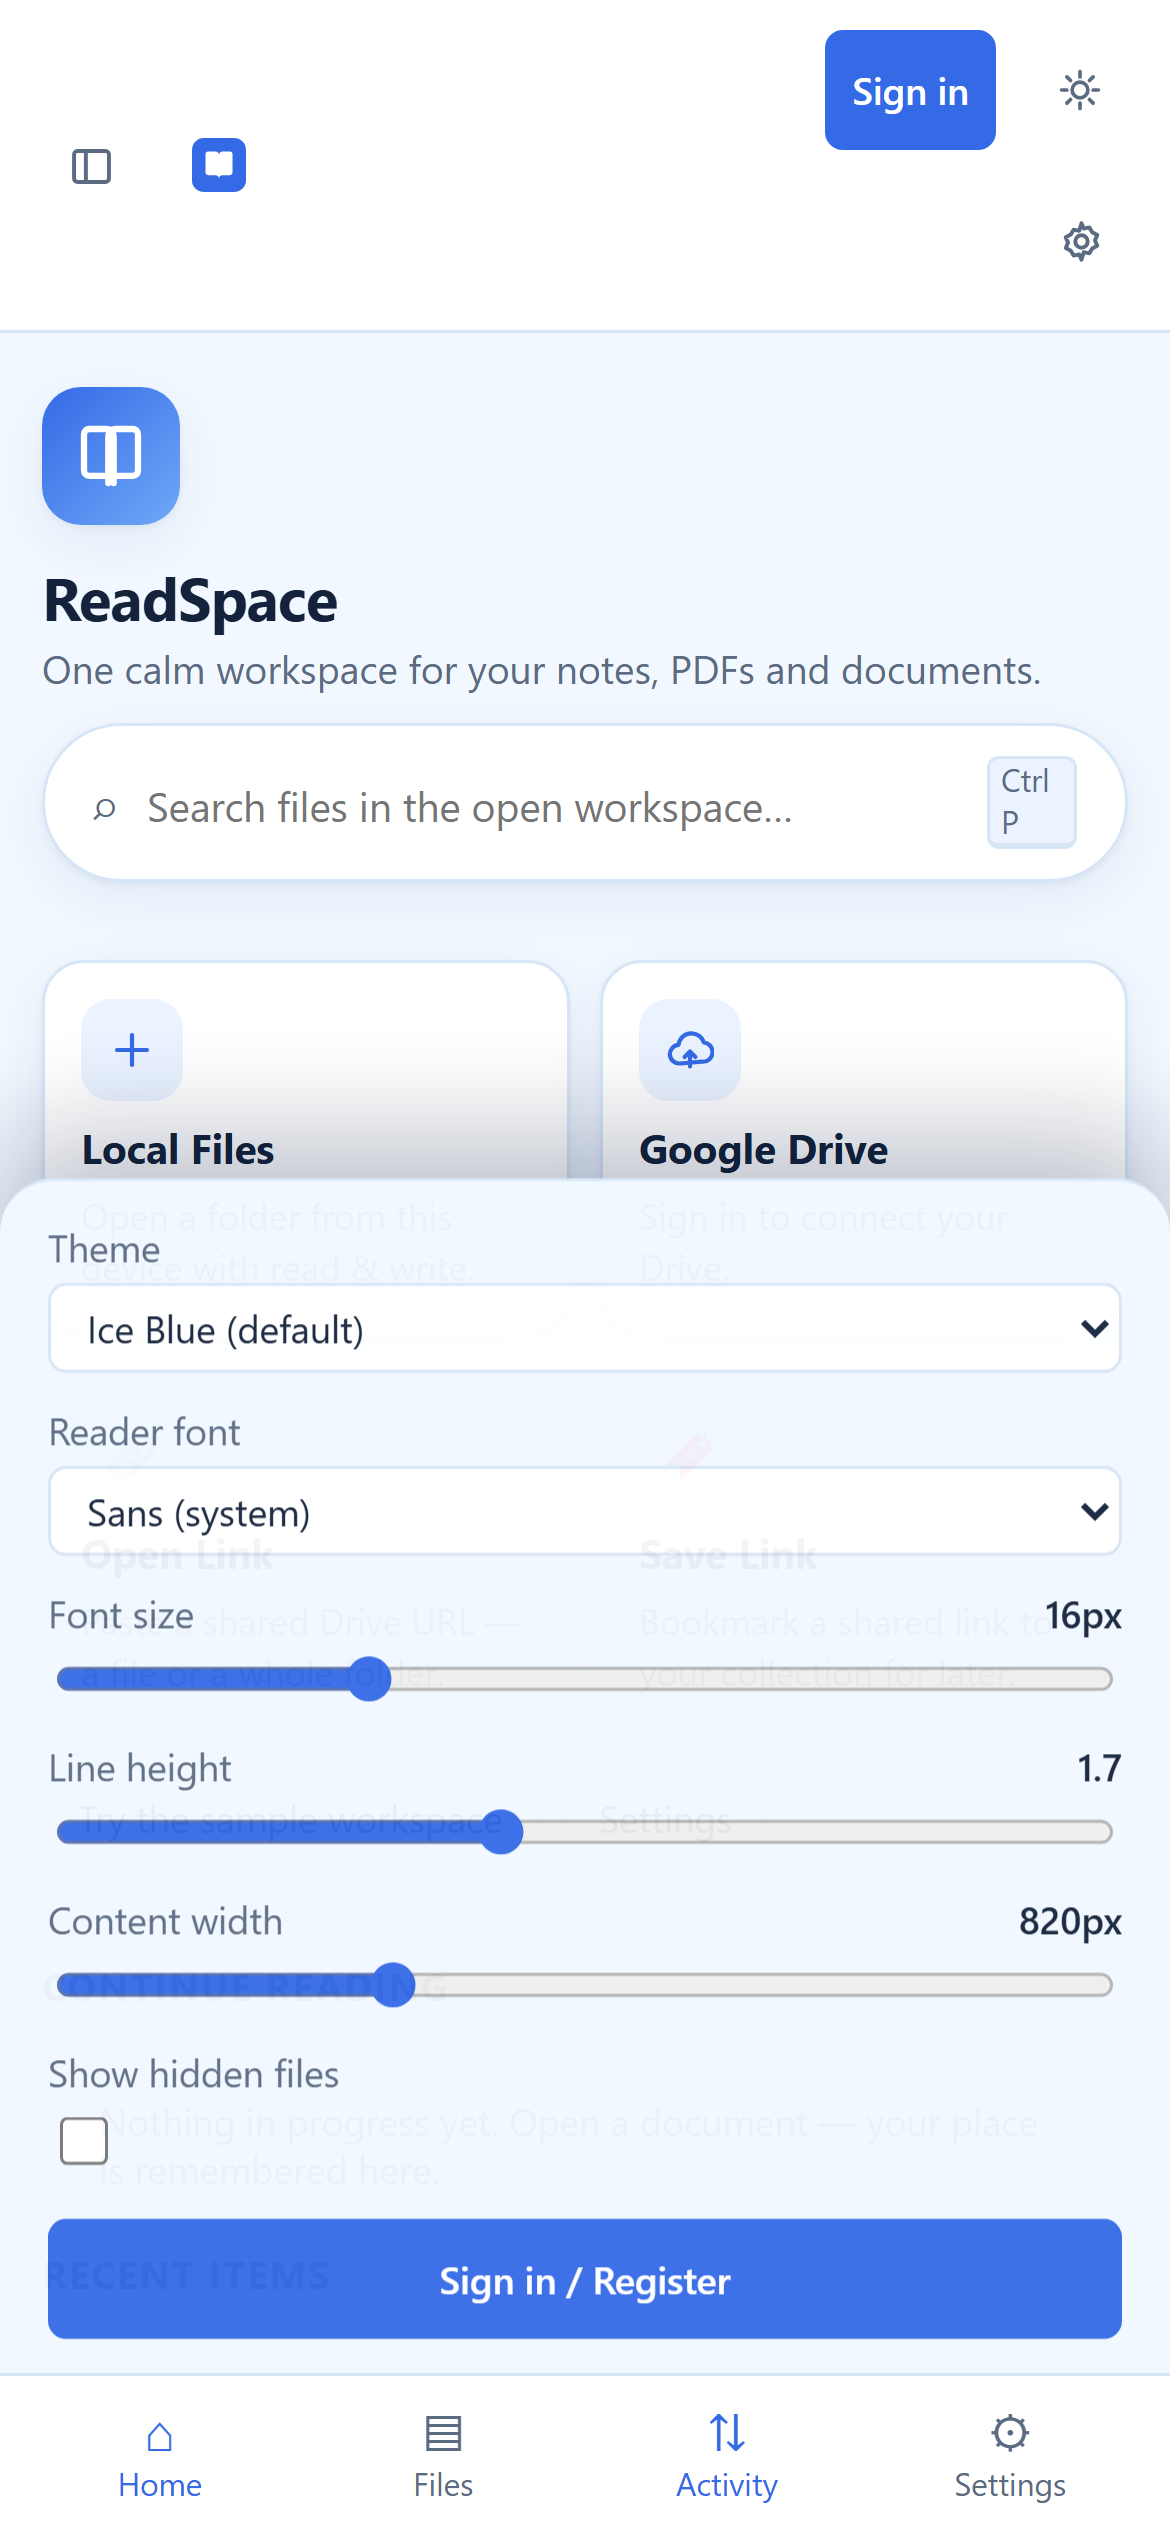
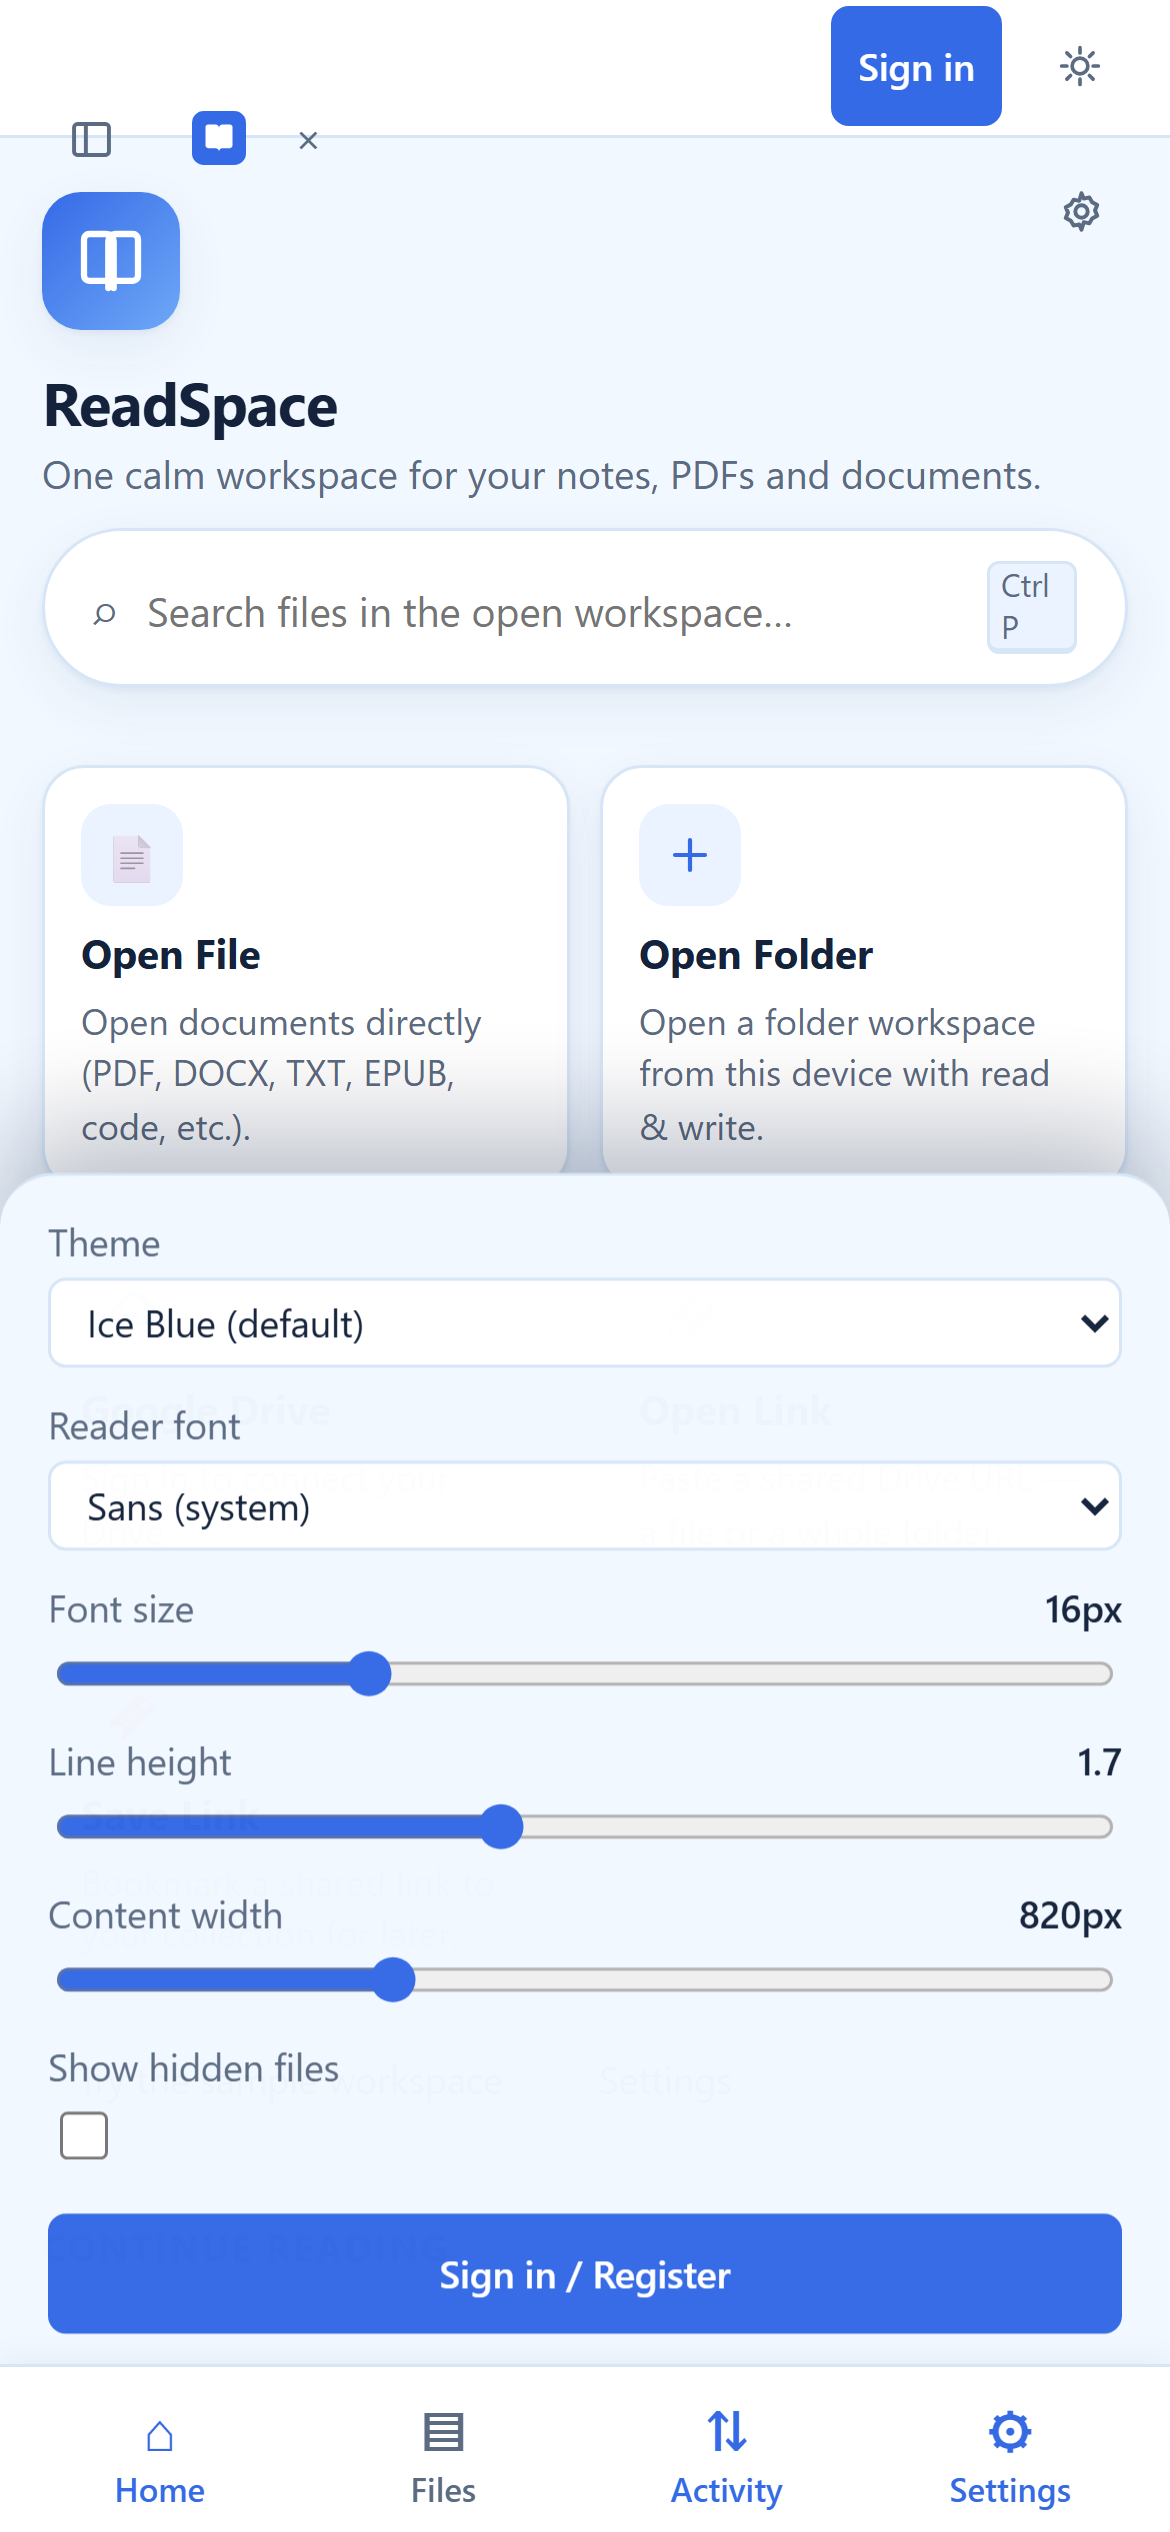
perf: gzip http compression, indexed mongo queries, bundle splitting, and textUtils extraction

diff --git a/src/components/Explorer.tsx b/src/components/Explorer.tsx
@@ -1,4 +1,4 @@
-import React, { useEffect, useMemo, useRef, useState } from 'react';
+import React, { useCallback, useEffect, useMemo, useRef, useState } from 'react';
 import { useWorkspace } from '../stores/workspace';
 import { useTabs } from '../stores/tabs';
 import { useSettings } from '../stores/settings';
@@ -63,13 +63,13 @@ export function Explorer() {
     return allFiles.filter((f) => f.path.toLowerCase().includes(q)).slice(0, 300);
   }, [filter, allFiles]);
 
-  const activate = (entry: FsEntry) => {
+  const activate = useCallback((entry: FsEntry) => {
     if (entry.kind === 'directory') void toggleDir(entry.path);
     else {
       useWorkspace.getState().select(entry.path);
       openPath(entry.path, { ext: entry.ext });
     }
-  };
+  }, [toggleDir, openPath]);
 
   const onContainerKeyDown = (e: React.KeyboardEvent) => {
     const container = containerRef.current;
@@ -81,30 +81,15 @@ export function Explorer() {
     } else if (e.key === 'ArrowUp' && idx > 0) {
       e.preventDefault(); rows[idx - 1].focus();
     } else if (e.key === 'ArrowRight' && idx >= 0) {
-      const path = rows[idx].dataset.path!;
-      if (!useWorkspace.getState().expanded[path]) { e.preventDefault(); void useWorkspace.getState().toggleDir(path); }
+      const p = rows[idx].dataset.path!;
+      if (!useWorkspace.getState().expanded[p]) { e.preventDefault(); void useWorkspace.getState().toggleDir(p); }
     } else if (e.key === 'ArrowLeft' && idx >= 0) {
-      const path = rows[idx].dataset.path!;
-      if (useWorkspace.getState().expanded[path]) { e.preventDefault(); void useWorkspace.getState().toggleDir(path); }
+      const p = rows[idx].dataset.path!;
+      if (useWorkspace.getState().expanded[p]) { e.preventDefault(); void useWorkspace.getState().toggleDir(p); }
     } else if (e.key === 'Enter' && idx >= 0) {
       e.preventDefault(); rows[idx].click();
     }
   };
-
-  const renderNode = (entry: FsEntry, depth: number): React.ReactNode => (
-    <TreeNodeItem
-      key={entry.path}
-      entry={entry}
-      depth={depth}
-      showHidden={showHidden}
-      cloudSync={cloudSync}
-      provider={provider}
-      selected={selected}
-      activate={activate}
-      openPath={openPath}
-      renderNode={renderNode}
-    />
-  );
 
   return (
     <div className="explorer">
@@ -298,14 +283,26 @@ export function Explorer() {
             ))
           )
         ) : (
-          !busy && (entries[''] ?? []).map((e) => renderNode(e, 0))
+          !busy && (entries[''] ?? []).map((e) => (
+            <TreeNodeItem
+              key={e.path}
+              entry={e}
+              depth={0}
+              showHidden={showHidden}
+              cloudSync={cloudSync}
+              provider={provider}
+              selected={selected}
+              activate={activate}
+              openPath={openPath}
+            />
+          ))
         )}
       </div>
     </div>
   );
 }
 
-function TreeNodeItem({
+const TreeNodeItem = React.memo(function TreeNodeItem({
   entry,
   depth,
   showHidden,
@@ -314,7 +311,6 @@ function TreeNodeItem({
   selected,
   activate,
   openPath,
-  renderNode,
 }: {
   entry: FsEntry;
   depth: number;
@@ -324,7 +320,6 @@ function TreeNodeItem({
   selected: string | null;
   activate: (entry: FsEntry) => void;
   openPath: (path: string, meta?: any) => void;
-  renderNode: (entry: FsEntry, depth: number) => React.ReactNode;
 }) {
   const isOpen = useWorkspace((s) => !!s.expanded[entry.path]);
   const children = useWorkspace((s) => s.entries[entry.path]);
@@ -434,7 +429,7 @@ function TreeNodeItem({
               const { pickLocalDestination, downloadFromDrive } = await import('../features/cloud/transfers');
               const cloudP = provider as InstanceType<typeof CloudDriveProvider>;
               try {
-                const meta = await cloudP.metaFor(entry.path);
+                const meta = await (cloudP as any).metaFor(entry.path);
                 if (meta?.id) {
                   const dest = await pickLocalDestination();
                   if (dest === 'cancelled') return;
@@ -463,13 +458,25 @@ function TreeNodeItem({
               (empty)
             </div>
           ) : (
-            children.map((c) => renderNode(c, depth + 1))
+            children.map((c) => (
+              <TreeNodeItem
+                key={c.path}
+                entry={c}
+                depth={depth + 1}
+                showHidden={showHidden}
+                cloudSync={cloudSync}
+                provider={provider}
+                selected={selected}
+                activate={activate}
+                openPath={openPath}
+              />
+            ))
           )}
         </div>
       )}
     </div>
   );
-}
+});
 
 function isVisibleLocal(entry: FsEntry, showHidden: boolean): boolean {
   if (!showHidden && entry.name.startsWith('.')) return false;

diff --git a/src/components/ViewerHost.tsx b/src/components/ViewerHost.tsx
@@ -5,18 +5,18 @@ import { toast } from '../stores/toast';
 import { EDITABLE_RENDERERS, rendererForExt, rendererLabel } from '../services/fs/types';
 import { DriveConflictError } from '../services/fs/cloud';
 import { confirmOptions } from '../stores/confirm';
-import { countWords, downloadText } from '../services/assets';
+import { countWords, downloadText } from '../services/textUtils';
 import { clearDraft, loadDraft, scheduleDraft } from '../services/persistence';
 import ErrorBoundary from './ErrorBoundary';
-import MarkdownView from './viewers/MarkdownView';
 import TextView from './viewers/TextView';
 import HtmlView from './viewers/HtmlView';
 import ImageView from './viewers/ImageView';
 import UnsupportedView from './viewers/UnsupportedView';
 import PlainEditor from './editors/PlainEditor';
-import { Spinner } from './viewers/PdfView';
+import { Spinner } from './Spinner';
 import { Eye, Pencil, Split } from './Icons';
 
+const MarkdownView = React.lazy(() => import('./viewers/MarkdownView'));
 const PdfView = React.lazy(() => import('./viewers/PdfView'));
 const DocxView = React.lazy(() => import('./viewers/DocxView'));
 const AudioView = React.lazy(() => import('./viewers/AudioView'));
@@ -234,7 +234,11 @@ export function ViewerHost({ tab }: { tab: Tab }) {
   const renderPreview = () => {
     switch (rendererId) {
       case 'markdown':
-        return <ErrorBoundary><MarkdownView text={text} path={tab.path} /></ErrorBoundary>;
+        return (
+          <Suspense fallback={<Spinner label="Loading markdown engine…" />}>
+            <ErrorBoundary><MarkdownView text={text} path={tab.path} /></ErrorBoundary>
+          </Suspense>
+        );
       case 'html':
         return <ErrorBoundary><HtmlView text={text} path={tab.path} /></ErrorBoundary>;
       case 'text':

diff --git a/src/services/assets.ts b/src/services/assets.ts
@@ -51,14 +51,7 @@ export function mimeForRef(ref: string, buf?: ArrayBuffer): string {
   return mime;
 }
 
-export function downloadText(name: string, text: string): void {
-  const blob = new Blob([text], { type: 'text/plain;charset=utf-8' });
-  const a = document.createElement('a');
-  a.href = URL.createObjectURL(blob);
-  a.download = name;
-  a.click();
-  setTimeout(() => URL.revokeObjectURL(a.href), 5000);
-}
+export { countWords, downloadText } from './textUtils';
 
 function slugify(s: string): string {
   return s.toLowerCase().trim().replace(/[^\w\s-]/g, '').replace(/\s+/g, '-').slice(0, 64) || 'section';
@@ -244,9 +237,6 @@ export async function buildSandboxedHtml(
   return { html: '<!doctype html>' + doc.documentElement.outerHTML };
 }
 
-export function countWords(text: string): number {
-  const m = text.trim().match(/\S+/g);
-  return m ? m.length : 0;
-}
+
 
 export { basename };

diff --git a/src/components/TitleBar.tsx b/src/components/TitleBar.tsx
@@ -70,8 +70,10 @@ export function TitleBar({ onQuickOpen, onOpenDrive, onHome }: { onQuickOpen: ()
           <span className="brand-name">ReadSpace</span>
         </button>
         {provider && (
-          <span className="ws-label" title={`Workspace: ${provider.id}`}>
-            {provider.label}
+          <span style={{ display: 'inline-flex', alignItems: 'center' }}>
+            <span className="ws-label" title={`Workspace: ${provider.id}`}>
+              {provider.label}
+            </span>
             <button
               type="button"
               className="ws-close-btn"

diff --git a/src/components/viewers/PdfView.tsx b/src/components/viewers/PdfView.tsx
@@ -1,3 +1,4 @@
+import { Spinner } from '../Spinner';
 import React, { useCallback, useEffect, useRef, useState } from 'react';
 import type { PDFDocumentProxy } from 'pdfjs-dist';
 import { ZoomIn, ZoomOut } from '../Icons';
@@ -307,11 +308,4 @@ function PdfPage({
   );
 }
 
-export function Spinner({ label }: { label: string }) {
-  return (
-    <div className="spinner-wrap" role="status" aria-live="polite">
-      <div className="spinner" />
-      <span className="muted">{label}</span>
-    </div>
-  );
-}
+export { Spinner } from '../Spinner';

diff --git a/src/services/textUtils.ts b/src/services/textUtils.ts
@@ -1,0 +1,16 @@
+/** Pure text & download utilities isolated from heavyweight syntax/rendering libraries. */
+
+export function countWords(text: string): number {
+  const m = text.trim().match(/\S+/g);
+  return m ? m.length : 0;
+}
+
+export function downloadText(name: string, text: string): void {
+  const blob = new Blob([text], { type: 'text/plain;charset=utf-8' });
+  const a = document.createElement('a');
+  a.href = URL.createObjectURL(blob);
+  a.download = name;
+  a.click();
+  setTimeout(() => URL.revokeObjectURL(a.href), 5000);
+}
+

diff --git a/src/components/Spinner.tsx b/src/components/Spinner.tsx
@@ -1,0 +1,13 @@
+import React from 'react';
+
+export function Spinner({ label }: { label: string }) {
+  return (
+    <div className="spinner-wrap" role="status" aria-live="polite">
+      <div className="spinner" />
+      <span className="muted">{label}</span>
+    </div>
+  );
+}
+
+export default Spinner;
+

diff --git a/src/components/viewers/DocxView.tsx b/src/components/viewers/DocxView.tsx
@@ -1,7 +1,7 @@
 import React, { useEffect, useState } from 'react';
 import DOMPurify from 'dompurify';
 import mammoth from 'mammoth/mammoth.browser.min.js';
-import { Spinner } from './PdfView';
+import { Spinner } from '../Spinner';
 import { copyTextToClipboard } from './TextView';
 
 /**
